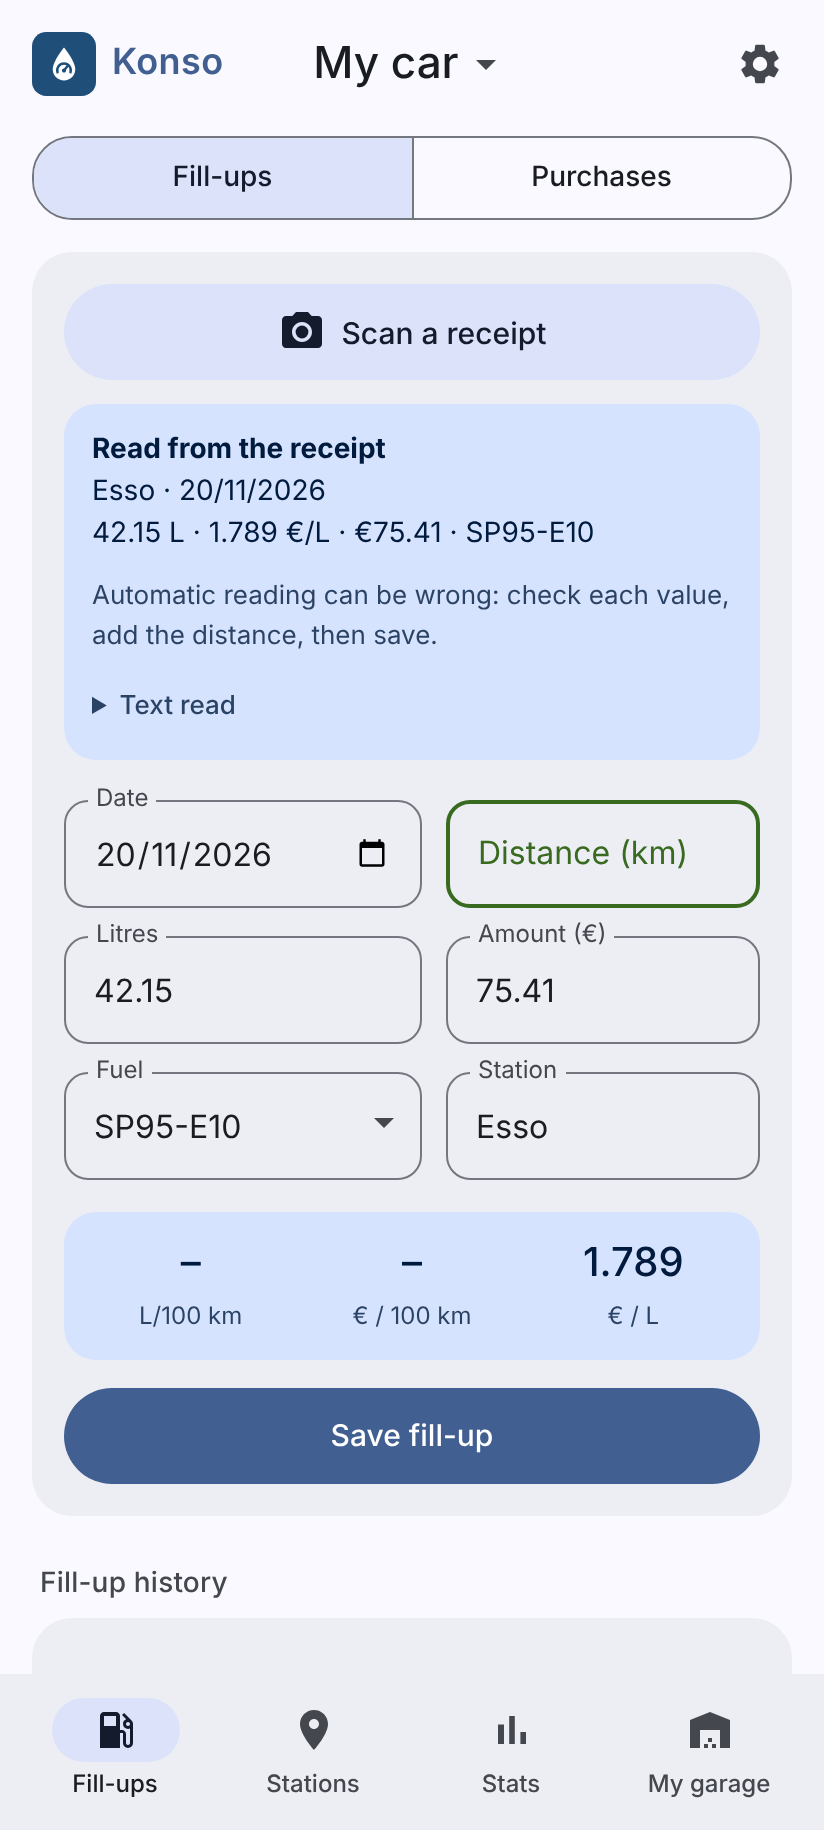
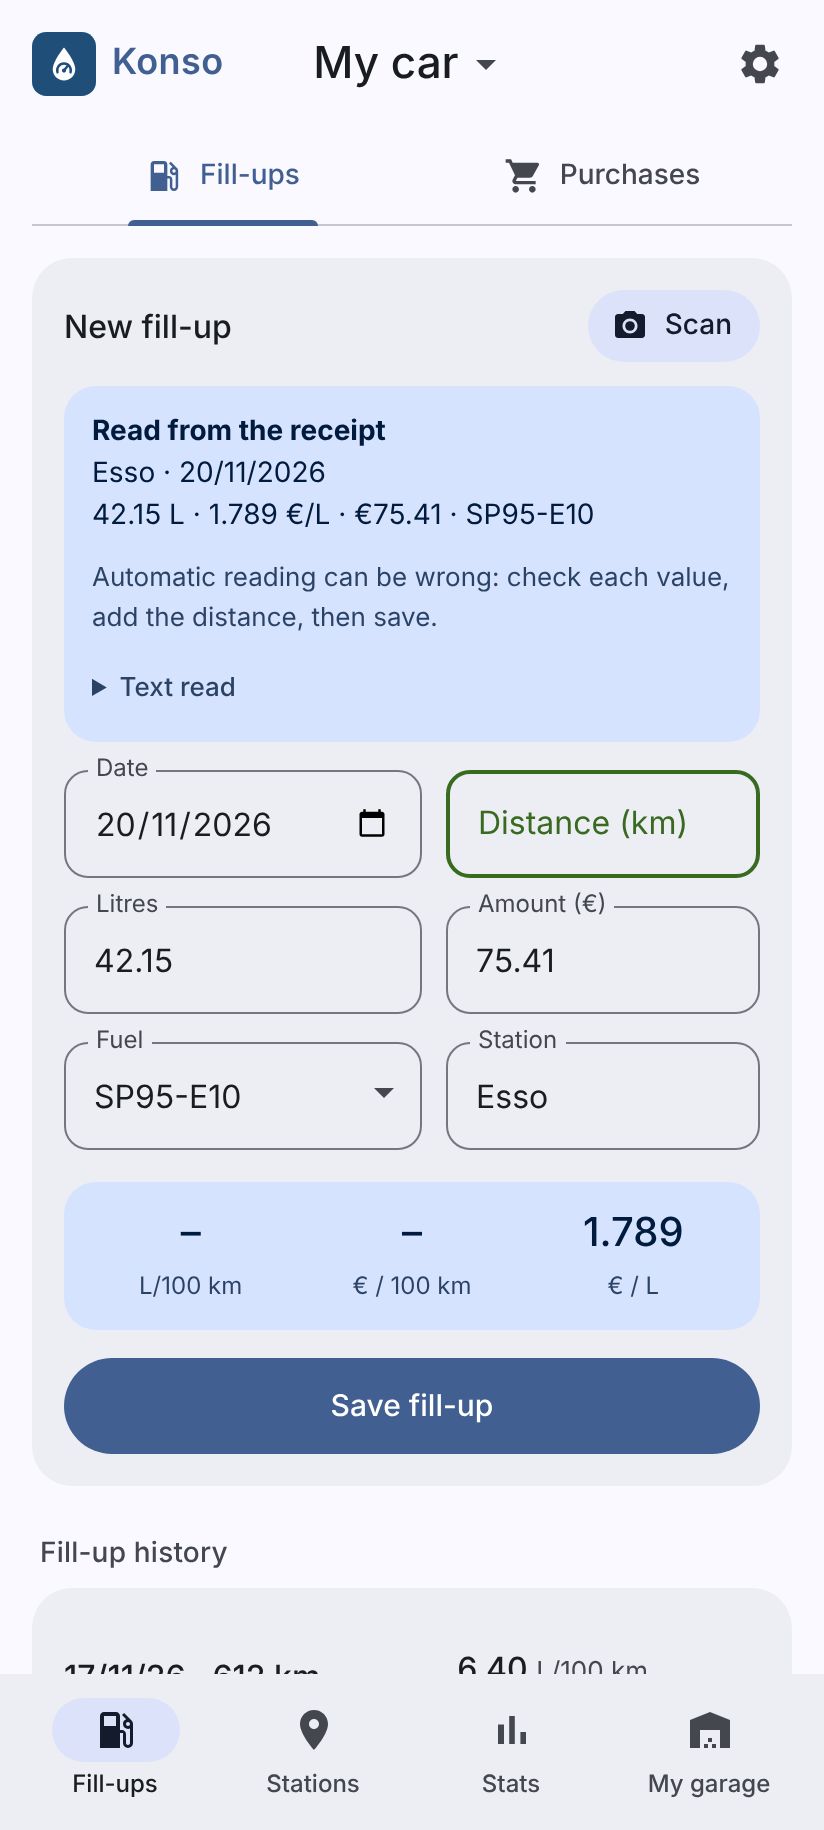
Fill-up card: title with a small Scan button instead of the wide scan button
Few people scan receipts, but the wide "Scan a receipt" button took the top
of the fill-up card. It is now a small tonal button on the right of a card
title, still the first thing seen, using much less height.

- index.html: new .cardhead row in the fill-up card: title "New fill-up"
  (existing text new_fill) and the small #scanBtn label (camera + "Scan"),
  hidden until the OCR engine is there. The file input #sc1 stays next to it;
  #scan now only holds the first-use hint and what was read on the receipt.
  The purchase card gets the same title row ("New purchase", existing
  new_buy) so both tabs look alike.
- app.css: new .btn.small (button as wide as its text) and .cardhead (title
  with an optional button on its right); spacing of the receipt result
  above the form.
- app.js: initScan() also shows #scanBtn; the "scan" tour step points at it.
- i18n.js: new scan_short ("Scan") in the 10 languages; the full scan_btn
  text stays as the button's tooltip and the tour title.
- Screenshots regenerated.

Claude-Session: https://claude.ai/code/session_01Fn4kayjuzW8mUexRkg5oAN

diff --git a/app/src/main/assets/www/i18n.js b/app/src/main/assets/www/i18n.js
@@ -134,7 +134,7 @@
     car_note_del: "Supprimer une voiture supprime aussi ses pleins et ses achats.",
     car_note_keep: "Il faut garder au moins une voiture.",
     car_need_name: "Donne un nom à la voiture", car_dup: "Une voiture porte déjà ce nom",
-    new_fill: "Nouveau plein", scan_btn: "Scanner un ticket",
+    new_fill: "Nouveau plein", scan_btn: "Scanner un ticket", scan_short: "Scanner",
     scan_hint: "Lecture sur le téléphone, sans internet. Vérifie toujours les valeurs.",
     date: "Date", distance: "Distance ({du})", litres: "Litres", amount: "Montant ({cs})",
     fuel: "Carburant", station: "Station",
@@ -413,7 +413,7 @@
     car_note_del: "Deleting a car also deletes its fill-ups and purchases.",
     car_note_keep: "You must keep at least one car.",
     car_need_name: "Give the car a name", car_dup: "A car with this name already exists",
-    new_fill: "New fill-up", scan_btn: "Scan a receipt",
+    new_fill: "New fill-up", scan_btn: "Scan a receipt", scan_short: "Scan",
     scan_hint: "Read on your phone, no internet. Always check the values.",
     date: "Date", distance: "Distance ({du})", litres: "Litres", amount: "Amount ({cs})",
     fuel: "Fuel", station: "Station",
@@ -692,7 +692,7 @@
     car_note_del: "Eliminar un coche elimina también sus repostajes y compras.",
     car_note_keep: "Debes conservar al menos un coche.",
     car_need_name: "Ponle un nombre al coche", car_dup: "Ya existe un coche con ese nombre",
-    new_fill: "Nuevo repostaje", scan_btn: "Escanear un ticket",
+    new_fill: "Nuevo repostaje", scan_btn: "Escanear un ticket", scan_short: "Escanear",
     scan_hint: "Lectura en el teléfono, sin internet. Comprueba siempre los valores.",
     date: "Fecha", distance: "Distancia ({du})", litres: "Litros", amount: "Importe ({cs})",
     fuel: "Combustible", station: "Gasolinera",
@@ -971,7 +971,7 @@
     car_note_del: "Beim Löschen eines Autos werden auch seine Tankungen und Käufe gelöscht.",
     car_note_keep: "Mindestens ein Auto muss bleiben.",
     car_need_name: "Gib dem Auto einen Namen", car_dup: "Ein Auto mit diesem Namen gibt es schon",
-    new_fill: "Neue Tankung", scan_btn: "Beleg scannen",
+    new_fill: "Neue Tankung", scan_btn: "Beleg scannen", scan_short: "Scannen",
     scan_hint: "Lesen auf dem Handy, ohne Internet. Werte immer prüfen.",
     date: "Datum", distance: "Strecke ({du})", litres: "Liter", amount: "Betrag ({cs})",
     fuel: "Kraftstoff", station: "Tankstelle",
@@ -1250,7 +1250,7 @@
     car_note_del: "Eliminando un'auto si eliminano anche i suoi rifornimenti e acquisti.",
     car_note_keep: "Devi tenere almeno un'auto.",
     car_need_name: "Dai un nome all'auto", car_dup: "Esiste già un'auto con questo nome",
-    new_fill: "Nuovo rifornimento", scan_btn: "Scansiona uno scontrino",
+    new_fill: "Nuovo rifornimento", scan_btn: "Scansiona uno scontrino", scan_short: "Scansiona",
     scan_hint: "Lettura sul telefono, senza internet. Controlla sempre i valori.",
     date: "Data", distance: "Distanza ({du})", litres: "Litri", amount: "Importo ({cs})",
     fuel: "Carburante", station: "Distributore",
@@ -1529,7 +1529,7 @@
     car_note_del: "Eliminar um carro elimina também os seus abastecimentos e compras.",
     car_note_keep: "Tens de manter pelo menos um carro.",
     car_need_name: "Dá um nome ao carro", car_dup: "Já existe um carro com este nome",
-    new_fill: "Novo abastecimento", scan_btn: "Digitalizar um talão",
+    new_fill: "Novo abastecimento", scan_btn: "Digitalizar um talão", scan_short: "Digitalizar",
     scan_hint: "Leitura no telemóvel, sem internet. Verifica sempre os valores.",
     date: "Data", distance: "Distância ({du})", litres: "Litros", amount: "Montante ({cs})",
     fuel: "Combustível", station: "Posto",
@@ -1808,7 +1808,7 @@
     car_note_del: "Als je een auto verwijdert, verdwijnen ook zijn tankbeurten en aankopen.",
     car_note_keep: "Er moet minstens één auto blijven.",
     car_need_name: "Geef de auto een naam", car_dup: "Er bestaat al een auto met deze naam",
-    new_fill: "Nieuwe tankbeurt", scan_btn: "Bonnetje scannen",
+    new_fill: "Nieuwe tankbeurt", scan_btn: "Bonnetje scannen", scan_short: "Scannen",
     scan_hint: "Wordt op de telefoon gelezen, zonder internet. Controleer altijd de waarden.",
     date: "Datum", distance: "Afstand ({du})", litres: "Liters", amount: "Bedrag ({cs})",
     fuel: "Brandstof", station: "Tankstation",
@@ -2087,7 +2087,7 @@
     car_note_del: "Usunięcie auta usuwa też jego tankowania i zakupy.",
     car_note_keep: "Musi zostać co najmniej jedno auto.",
     car_need_name: "Nadaj autu nazwę", car_dup: "Auto o tej nazwie już istnieje",
-    new_fill: "Nowe tankowanie", scan_btn: "Zeskanuj paragon",
+    new_fill: "Nowe tankowanie", scan_btn: "Zeskanuj paragon", scan_short: "Skanuj",
     scan_hint: "Odczyt na telefonie, bez internetu. Zawsze sprawdź wartości.",
     date: "Data", distance: "Dystans ({du})", litres: "Litry", amount: "Kwota ({cs})",
     fuel: "Paliwo", station: "Stacja",
@@ -2366,7 +2366,7 @@
     car_note_del: "Bir arabayı silmek, yakıt alımlarını ve alışverişlerini de siler.",
     car_note_keep: "En az bir araba kalmalı.",
     car_need_name: "Arabaya bir ad ver", car_dup: "Bu adda bir araba zaten var",
-    new_fill: "Yeni yakıt alımı", scan_btn: "Fiş tara",
+    new_fill: "Yeni yakıt alımı", scan_btn: "Fiş tara", scan_short: "Tara",
     scan_hint: "Telefonda okunur, internet gerekmez. Değerleri her zaman kontrol et.",
     date: "Tarih", distance: "Mesafe ({du})", litres: "Litre", amount: "Tutar ({cs})",
     fuel: "Yakıt", station: "İstasyon",
@@ -2645,7 +2645,7 @@
     car_note_del: "Ștergerea unei mașini șterge și alimentările și achizițiile ei.",
     car_note_keep: "Trebuie să păstrezi cel puțin o mașină.",
     car_need_name: "Dă un nume mașinii", car_dup: "Există deja o mașină cu acest nume",
-    new_fill: "Alimentare nouă", scan_btn: "Scanează un bon",
+    new_fill: "Alimentare nouă", scan_btn: "Scanează un bon", scan_short: "Scanează",
     scan_hint: "Citire pe telefon, fără internet. Verifică mereu valorile.",
     date: "Data", distance: "Distanța ({du})", litres: "Litri", amount: "Suma ({cs})",
     fuel: "Combustibil", station: "Stație",

diff --git a/app/src/main/assets/www/index.html b/app/src/main/assets/www/index.html
@@ -80,20 +80,26 @@
         </div>
         <div id="fill">
           <div class="card">
-            <div id="scan" class="hide">
-              <label class="btn tonal first" for="sc1"
+            <!-- Card title, and the small "Scan" button on its right (shown by initScan() when the OCR
+                 engine is there): visible, but lighter than the form, as few people scan receipts -->
+            <div class="cardhead">
+              <h3 data-i18n="new_fill"></h3>
+              <label class="btn tonal small hide" id="scanBtn" for="sc1" data-i18n-title="scan_btn"
                 ><svg class="i" viewBox="0 0 24 24">
                   <circle cx="12" cy="12" r="3.2" />
                   <path
                     d="M9 2L7.17 4H4c-1.1 0-2 .9-2 2v12c0 1.1.9 2 2 2h16c1.1 0 2-.9 2-2V6c0-1.1-.9-2-2-2h-3.17L15 2H9zm3 15c-2.76 0-5-2.24-5-5s2.24-5 5-5 5 2.24 5 5-2.24 5-5 5z"
                   /></svg
-                ><span data-i18n="scan_btn"></span
+                ><span data-i18n="scan_short"></span
               ></label>
-              <input type="file" id="sc1" accept="image/*" hidden />
-              <div class="note" id="scanHint" style="margin: 8px 0 0" data-i18n="scan_hint"></div>
+            </div>
+            <input type="file" id="sc1" accept="image/*" hidden />
+            <!-- first-use hint and what was read on the receipt -->
+            <div id="scan" class="hide">
+              <div class="note" id="scanHint" style="margin: 0 0 14px" data-i18n="scan_hint"></div>
               <div id="scanres" class="scanres hide"></div>
             </div>
-            <div class="grid" style="margin-top: 20px">
+            <div class="grid">
               <div class="f fl"><input type="date" id="fd" /><label for="fd" data-i18n="date"></label></div>
               <div class="f">
                 <input type="number" id="fk" inputmode="decimal" step="0.1" placeholder=" " /><label
@@ -139,7 +145,8 @@
         <!-- Purchases (form, history), the second part of the Fill-ups tab -->
         <div id="buys" class="hide">
           <div class="card">
-            <div class="grid" style="margin-top: 6px">
+            <div class="cardhead"><h3 data-i18n="new_buy"></h3></div>
+            <div class="grid">
               <div class="f fl"><input type="date" id="bd" /><label for="bd" data-i18n="date"></label></div>
               <div class="f">
                 <input type="number" id="be" inputmode="decimal" step="0.01" placeholder=" " /><label

diff --git a/app/src/main/assets/www/app.js b/app/src/main/assets/www/app.js
@@ -1414,12 +1414,13 @@ async function prepImage(file) {
   x.putImageData(im, 0, 0);
   return await new Promise(r => c.toBlob(r, 'image/png'));
 }
-// "Scan a receipt" button. For each photo: prepare it, run OCR twice with two page layouts
+// "Scan" button (small, on the right of the fill-up card's title). For each photo: prepare it, run OCR twice with two page layouts
 // (6 = single block, 4 = single column), keep the reading whose parsed values are the most complete,
 // fill the form and show what was read. Gives up if the engine does not progress for 60 s.
 function initScan() {
   if (typeof Tesseract === 'undefined' || typeof TicketParse === 'undefined') return;
   $('scan').classList.remove('hide');
+  $('scanBtn').classList.remove('hide');
   const box = $('scanres');
   let busy = false;
   $('sc1').addEventListener('change', async e => {
@@ -3278,7 +3279,7 @@ const TOURS = {
     { id: 'navst', tab: 'garage', sel: '.nav [data-t="stations"]', since: 1 },
   ],
   fuel: [
-    { id: 'scan', sel: '#scan .btn', when: () => !$('scan').classList.contains('hide'), since: 1 },
+    { id: 'scan', sel: '#scanBtn', when: () => !$('scanBtn').classList.contains('hide'), since: 1 },
     { id: 'form', sel: '#fill .grid', since: 1 },
     { id: 'buys', sel: '#fuel .seg [data-p="buys"]', since: 2 },
   ],

diff --git a/app/src/main/assets/www/app.css b/app/src/main/assets/www/app.css
@@ -439,8 +439,35 @@ textarea {
   background: var(--error);
   color: var(--on-error);
 }
-.btn.first {
-  margin-top: 0;
+/* Small button, as wide as its text (the "Scan" button of the fill-up card) */
+.btn.small {
+  display: inline-flex;
+  width: auto;
+  height: 36px;
+  margin: 0;
+  padding: 0 14px 0 12px;
+  border-radius: 18px;
+  font-size: 14px;
+}
+.btn.small .i {
+  width: 18px;
+  height: 18px;
+}
+/* Fill-up and purchase cards: the title, and on its right an optional small button */
+.cardhead {
+  display: flex;
+  align-items: center;
+  justify-content: space-between;
+  gap: 8px;
+  min-height: 36px;
+  margin-bottom: 12px;
+}
+.card .cardhead h3 {
+  margin: 0;
+}
+/* what was read on the receipt, between the title and the form */
+#scan .scanres {
+  margin: 0 0 14px;
 }
 .btns2 {
   display: grid;
